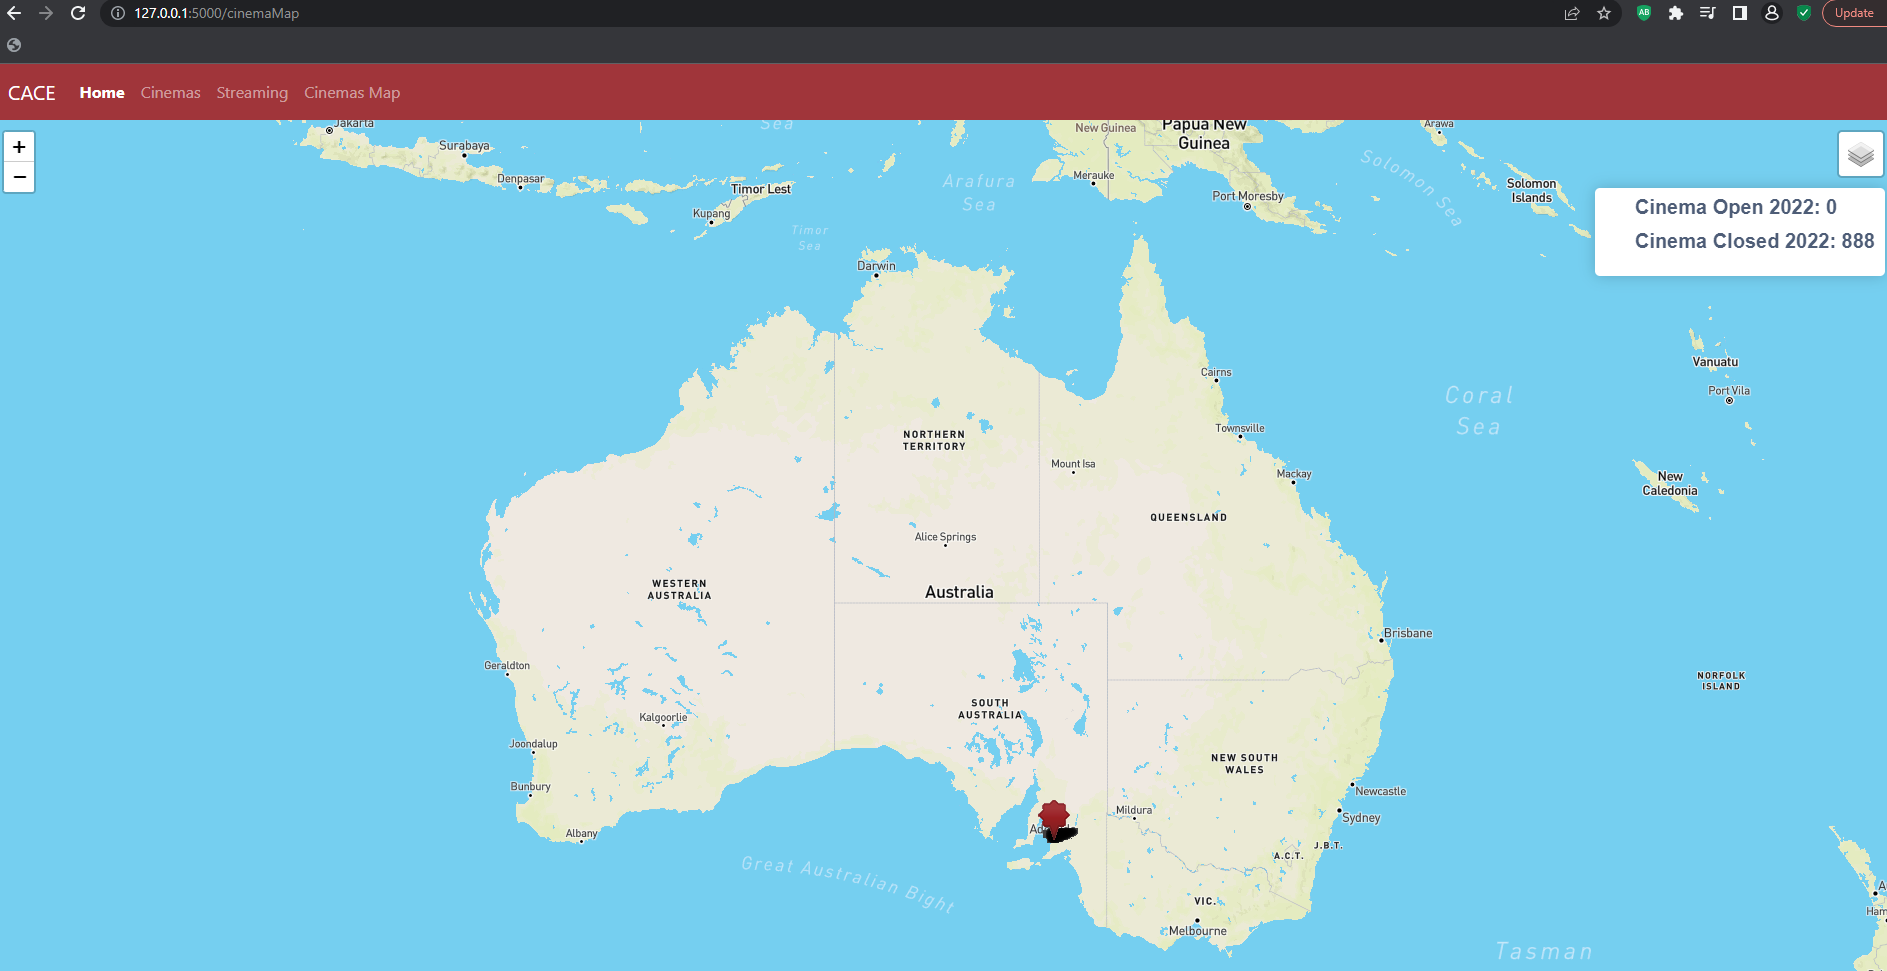
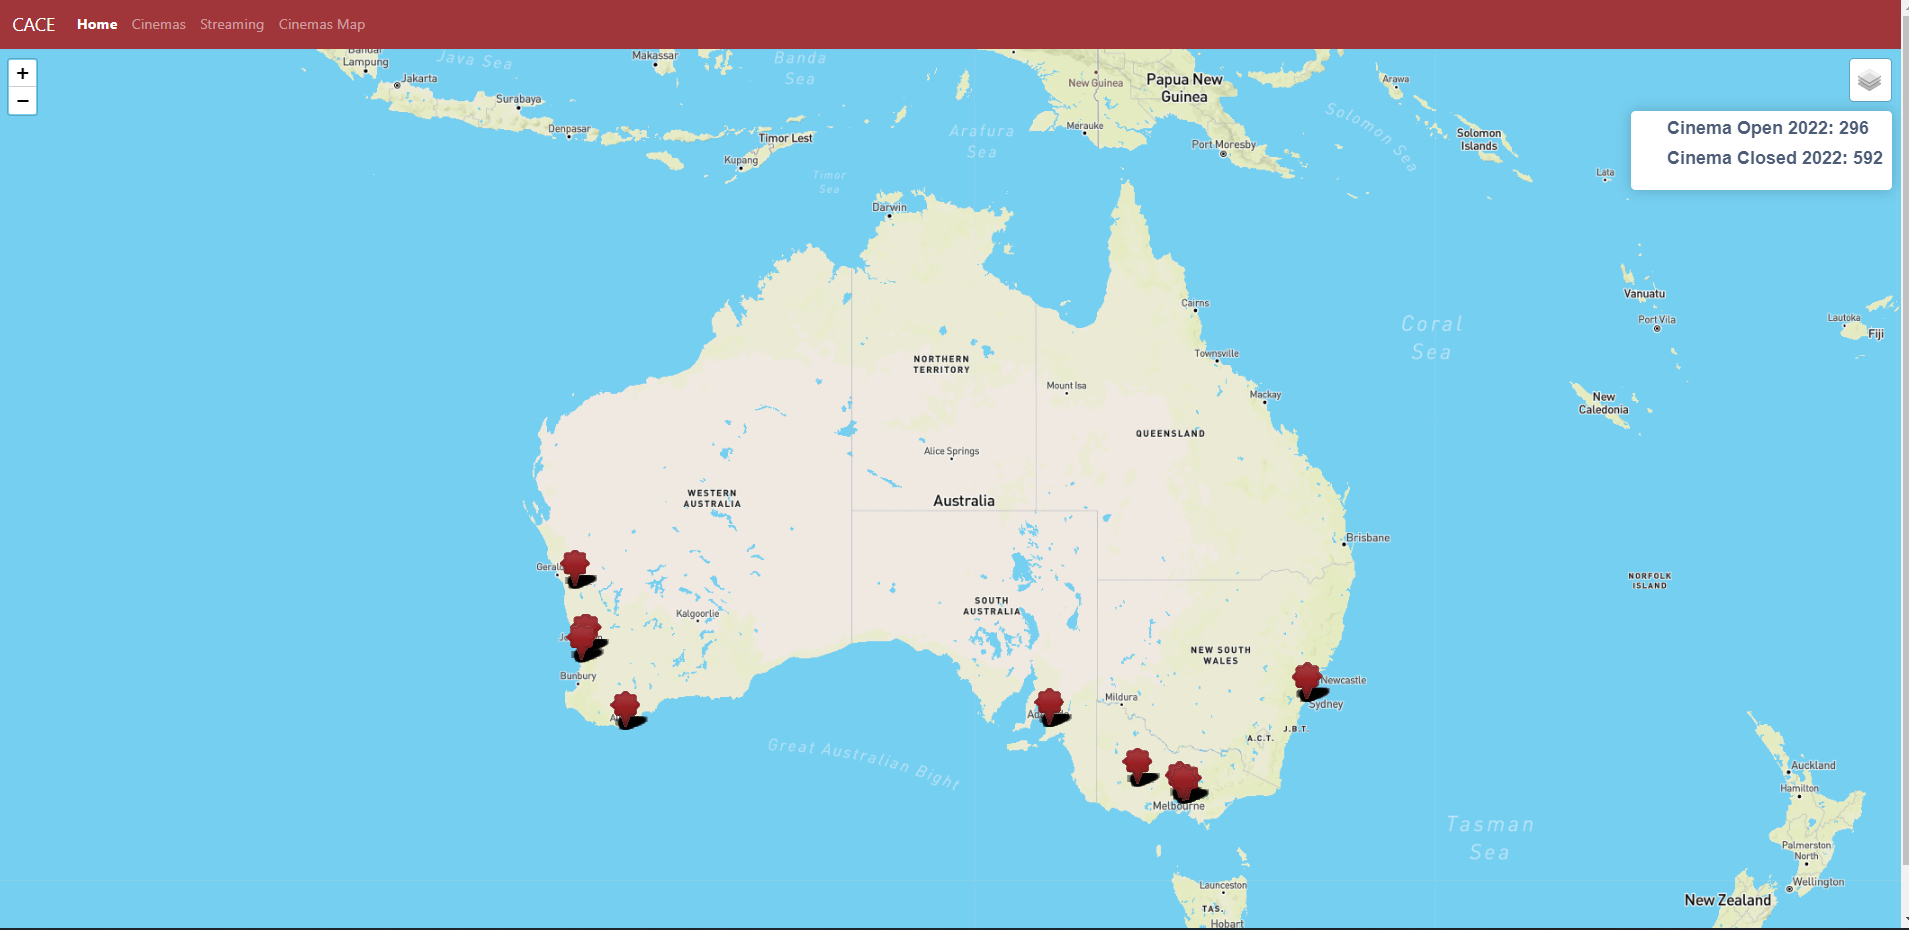
Updated readMe

diff --git a/templates/streaming.html b/templates/streaming.html
@@ -90,7 +90,18 @@
     <div class="row">
       <div class="col-md-12">
         <div id="chart-ew"></div>
-        <p></p>
+        <br>
+        <h4 style="font-size: 15px; text-align: center; font-style: italic;">Click Release, Subscribers or Frequency to display accordingly</h4>
+        <br>
+        <p>We asked the question - How do boxoffice movie releases compare to how often people attend the cinema per person 
+          per year and how does the number of subscribers to streaming services compare to that? The graph indicates a steady release of 
+          boxoffice movies until 2020 when Covid hit with between 800 and 1000 releases per year. Up until 2020 the frequency of how 
+          often people would go to the movies amounted to between 6-7 times per year. There was a sharp decline in 2020 due to Covid 
+          restictions and temporary shut downs due to social distancing measures. Streaming services entered the stage in 2017 since 
+          then the number of streaming service subscribers has exploded to over 30 million subscribers.</p>
+        <hr>  
+      </div>
+    </div>
       </div>
     </div>
 

diff --git a/templates/index.html b/templates/index.html
@@ -83,7 +83,9 @@
           <div class="card">
             <div class="card-body">
               <h5 class="card-title">Cinema Locations</h5>
-              <p class="card-text">The map shows the cinemas and their location.</p>
+              <p class="card-text">The cinemas Map is an interactive map where the user can take a look at cinema locations all 
+                over Australia that are currently open. Utilising the legend on the top hand right corner the user can also have 
+                a look at cinema locations that have been closed over time. </p>
               <a href="cinemaMap" class="btn btn-secondary">View Map</a>
             </div>
           </div>

diff --git a/README.md b/README.md
@@ -51,11 +51,24 @@ Home
 Cinemas
 ![Cinemas](Images/ReadMe/Cinemas.png)
 
+The graph shows a drop of 18% in the number of theatres between 1984 and 1985 however the number of screens continuously went up. According to ScreenAustralia, this is due to industry transitioning from single screens to multiplexes.
+
+
 Streaming
 ![Streaming](Images/ReadMe/Streaming.png)
 
+According Screen Australia, the average cinema ticket price was $15.24 in 2021. There are plenty of fee for streaming platforms to compete for the eyeball. This chart compares the streaming provider's fee and their number of simultanceous streams. In terms of pricing, cinema ticket price is definitely competitive and not the reason cinema-goers goers will be detered by. The restriction and health protocool does excelerate the adoption of signing up streaming services while we cannot phyiscally go to cinema. Online streaming offerings and Cinemas are not muturally exclusive options. Whilst online streaming does introduce competition, but it can never replace the cinema experience. Consumers utlimatly have the benefit of choosing their interested content and make switches whenever they want.
+
+
+![BoxofficeComparision](Images/ReadMe/BoxofficeComparision.png)
+
+We asked the question - How do boxoffice movie releases compare to how often people attend the cinema per person per year and how does the number of subscribers to streaming services compare to that? The graph indicates a steady release of boxoffice movies until 2020 when Covid hit with between 800 and 1000 releases per year. Up until 2020 the frequency of how often people would go to the movies amounted to between 6-7 times per year. There was a sharp decline in 2020 due to Covid restictions and temporary shut downs due to social distancing measures. Streaming services entered the stage in 2017 since then the number of streaming service subscribers has exploded to over 30 million subscribers.
+
 Cinemas Map
 ![Cinemas Map](Images/ReadMe/CinemaMap.png)
+
+The cinemas Map is an interactive map where the user can take a look at cinema locations all over Australia that are currently open. Utilising the legend on the top hand right corner the user can also have a look at cinema locations that have been closed over time. The user can have all open and closed cinemas showing or choose to display one or the other. The counter indicates that a total of 296 are currently open, where as a total of 592 cinemas have been closed over time. 
+
 
 
 
